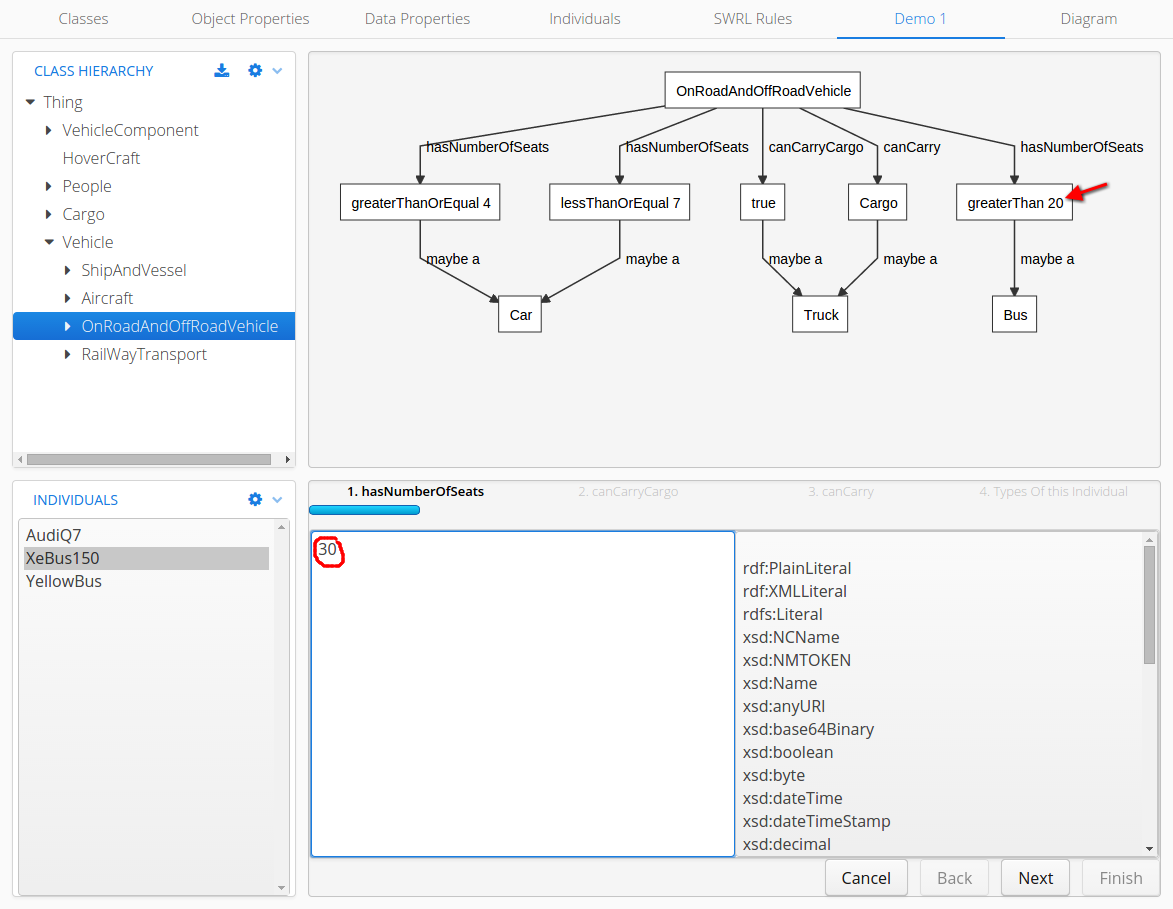
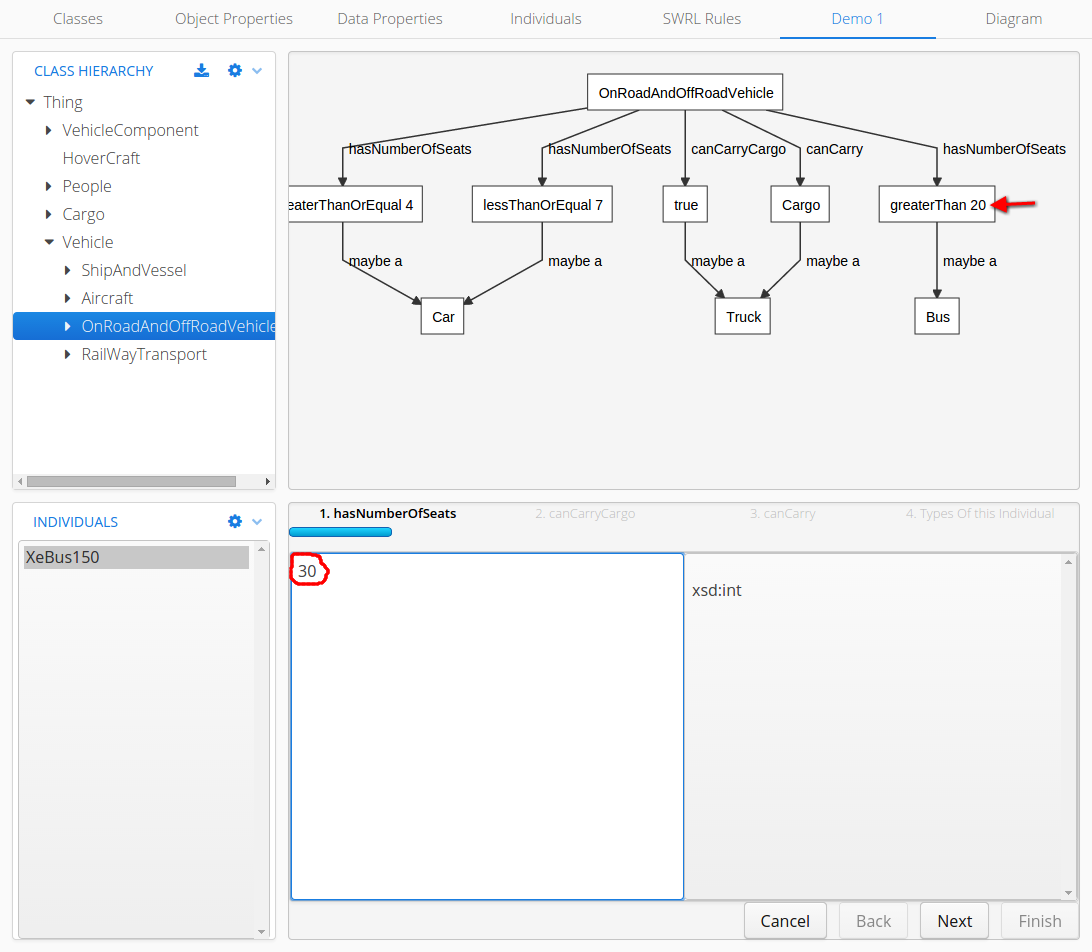
Done chapter 7

diff --git a/Chapters/uit_owleditor.tex b/Chapters/uit_owleditor.tex
@@ -441,28 +441,42 @@ Trong hình, các phát biểu được tô đậm chính là các phát biểu 
 \end{figure}
 Việc giải thích được đảm nhiệm bởi đối tượng \textit{DefaultExplanationGenerator} của OWL-API hoạt động theo nguyên lý được mô tả ở chương \textit{"Tính nhất quán của Ontology"}.
 
-\section{Thử nghiệm tính năng hỗ trợ phân loại - Demo Tab}
-Bên cạnh việc sử dụng đặc tính suy luận của Ontology để thực hiện phân loại, chúng em tự thiết kế một tính năng hỗ trợ phân loại dựa theo những thông tin khai báo trong SWRLRule, và dùng những ràng buộc về lĩnh vực (domain) và miền dữ liệu giới hạn (range) để hạn chế dữ liệu mà người dùng có thể lựa chọn qua đó làm giảm thời gian điền vào các mảnh thông tin còn thiếu. 
-\\
-Để phác họa cho ý tưởng này em xin trích một đoạn chứa các SWRLRule trong ontology \textit{Transport.owl} \cite{owleditorSrc} (được chúng em xây dựng để làm demo cho tính năng phân loại):
+\section{Tính năng hỗ trợ phân loại - Demo Tab}
+Việc sử dụng SWRL Rule hay đơn giản hơn là đọc và hiểu ý nghĩa có nó thường rất khó đối với người dùng thông thường, chưa kể đến việc chưa có cơ chế tổ chức các SWRL rule một cách khoa học, sẽ có những trường hợp chúng ta vô tình tạo ra những điều kiện trùng nhau dẫn đến 2 kết quả khác nhau hoặc ngược lại. Hiểu được nhược điểm này của SWRL Rule, chúng em đã thiết kế thêm tính năng hỗ trợ phân loại với giao diện là Tab Demo trong ứng dụng, với khả năng vẽ ra một sơ đồ dựa theo chuỗi các điều kiện - kết quả có liên quan đến lớp đang chứa cá thể được chọn để phân loại. Để minh họa cho tính năng này ,chúng em xin trích một đoạn chứa các SWRLRule trong ontology \textit{Transport.owl} \cite{owleditorSrc} (được chúng em xây dựng để làm demo cho tính năng phân loại):
 \begin{verbatim}
-# 
+# Phương tiện đường bộ có thể chở hàng hóa (Cargo) là xe tải (Truck)
 OnRoadAndOffRoadVehicle(?x) ^ canCarry(?x, ?y) ^ Cargo(?y)  -> Truck(?x)
-#
+# Phương tiện đường bộ có khả năng chở hàng là xe tải (Truck)
 OnRoadAndOffRoadVehicle(?x) ^ canCarryCargo(?x, true) -> Truck(?x)
-# Phương tiện đường bộ có số 4 <= chỗ ngồi <= 7 là xe hơi
+# Phương tiện đường bộ có số 4 <= chỗ ngồi <= 7 là xe hơi (Car)
 OnRoadAndOffRoadVehicle(?x) ^ hasNumberOfSeats(?x, ?s)
                             ^ swrlb:greaterThanOrEqual(?s, 4) 
                             ^ swrlb:lessThanOrEqual(?s, 7)  -> Car(?x)
-#
+# Phương tiện đường bộ có số chỗ ngồi >= 20 là xe Bus 
 OnRoadAndOffRoadVehicle(?x) ^ hasNumberOfSeats(?x, ?s) 
                             ^ swrlb:greaterThan(?s,20) -> Bus(?x)                               
 \end{verbatim}
-
-
-
-
-
+Dưới đây là hình ảnh mô tả sơ đồ biểu diễn của các rule trên
+\begin{figure}[h!]
+	\centering
+	\frame{\includegraphics[width=145mm]{Figures/owleditor_demo1.png}}
+	\caption{Tính năng hỗ trợ phân loại trong UIT-OWL Editor (phần 1)\label{overflow}}
+\end{figure}
+\\
+trong hình chỉ miêu tả những rule nào có liên quan đến lớp \textit{OnRoadAndOffRoadVehicle} vốn là lớp chứa cá thể \textit{XeBus150} trong hình, làm vậy để hạn chế những thông tin không cần thiết đối với người dùng. Khi chọn \textit{Suggest Me} sẽ tạo ra một loại các UI component phục vụ để tạo ra các phát biểu về cá thế \textit{XeBus150}.
+\begin{figure}[h!]
+	\centering
+	\frame{\includegraphics[width=145mm]{Figures/owleditor_demo2.png}}
+	\caption{Tính năng hỗ trợ phân loại trong UIT-OWL Editor (phần 2)\label{overflow}}
+\end{figure}
+\\
+Trong hình trên mỗi bước sẽ tương ứng với những phát biểu có liên quan đến \textit{OnRoadAndOffRoadVehicle} như trong sơ đồ. Miền dữ liệu (Range) của thuộc tính dữ liệu và thuộc tính đối tượng cũng sẽ được áp dụng nhằm giảm bớt những thông tin không cần thiết, thuộc tính \textit{hasNumberOfSeats} có DataPropertyRange( xsd:int) nên ở cột bên phải chúng ta chỉ thấy kiểu dữ liệu này thay vì là một loạt kiểu dữ liệu như xsd:string, xsd:byte, v.v... . Khi đến bước cuối cùng, reasoner sẽ đánh giá lại các thông tin mà chúng ta vừa nhập vào ở các bước trước để đưa kết quả phân loại phù hợp như đã được biểu diễn trong sơ đồ.
+\begin{figure}[h!]
+	\centering
+	\frame{\includegraphics[width=145mm]{Figures/owleditor_demo3.png}}
+	\caption{Tính năng hỗ trợ phân loại trong UIT-OWL Editor (phần 3)\label{overflow}}
+\end{figure}
+\paragraph{Kết luận} Qua chương này, chúng em đã trình bày về các tính năng nổi bật mà một trình biên soạn Ontology phải có, đồng thời chúng em cũng đã trình bày về những khả năng phân loại mà ngôn ngữ OWL2, SWRL mang lại qua những tính năng suy luận, giải thích và hỗ trợ phân loại. Ở chương kế và cũng là cuối cùng, chúng em xin dành để tổng hợp lại những kết quả đã làm được, những mặt khó khăn, thuận lợi và những hạn chế còn tồn tại, qua quan trọng không kém chính là hướng phát triển tương lai của công nghệ dạng này.
 
 
 

diff --git a/Chapters/owlapi_vaadin.tex b/Chapters/owlapi_vaadin.tex
@@ -15,8 +15,7 @@ Dưới đây là danh sách các Ontology Reasoner được hỗ trợ trong ph
 \item Pellet \cite{pellet}
 \item JFact 
 \end{itemize}
-Trong thư viện OWL-API, có nhiều đối tượng được xây dựng dựa trên cấu trúc phân lớp của một OWL2 Ontology, tương tự các thành phần đã được chúng em trình bày trong chương 2. Dưới đây là bảng liệt kê một số thành phần mà OWL-API đã xây dựng dựa trên mô tả trong chương 2 (chi tiết hơn ở trong \cite{owl2spec} và mã nguồn của OWL-API \cite{owlapi}).
-\begin{table}
+\begin{table}[h]
 	\centering
 	\begin{tabular}{|l|l|p{4cm}|}
 		\hline
@@ -51,9 +50,9 @@ Trong thư viện OWL-API, có nhiều đối tượng được xây dựng dự
 	\end{tabular}
 	\caption{Các đối tượng OWL2 trong OWL-API\label{overflow}}
 \end{table}
-Trên đây chỉ là một vài thành phần, mọi thành phần OWL2 được trình bày trong chương 2 đều được OWL-API xây dựng thành các đối tượng class, interface trong JAVA để phục vụ cho việc lập trình. Tuy nhiên để tương tác với một kiến trúc đối tượng lớn và phức tạp như 1 ontology cần có cách thức chuyên dùng cho việc này là Visitor Pattern.
+Trong thư viện OWL-API, có nhiều đối tượng được xây dựng dựa trên cấu trúc phân lớp của một OWL2 Ontology, tương tự các thành phần đã được chúng em trình bày trong chương 2. Dưới đây là bảng liệt kê một số thành phần mà OWL-API đã xây dựng dựa trên mô tả trong chương 2 (chi tiết hơn ở trong \cite{owl2spec} và mã nguồn của OWL-API \cite{owlapi}). Trên đây chỉ là một vài thành phần, mọi thành phần OWL2 được trình bày trong chương 2 đều được OWL-API xây dựng thành các đối tượng class, interface trong JAVA để phục vụ cho việc lập trình. Tuy nhiên để tương tác với một kiến trúc đối tượng lớn và phức tạp như 1 ontology cần có cách thức chuyên dùng cho việc này là Visitor Pattern.
 \subsection{Visitor Pattern}
-\begin{figure}[ht!]
+\begin{figure}[h!]
 	\centering
 	\includegraphics[width=110mm]{Figures/visitor_diagram.png}
 	\caption{Visitor Diagram\label{overflow}}
@@ -136,12 +135,14 @@ Có chức năng quản lý các OntologyIRI, OntologyID, VersionIRI. Cú pháp
 PrefixManager pm = new DefaultPrefixManager(null, null, "DemoIRI#");
 \end{verbatim}
 \subsubsection{OWLOntology}
-Là một bản mapping của OWL2 ontology thành các đối tượng trong JAVA, tất cả được lưu trong bộ nhớ (in-memory). Load ontology từ file nội bộ và URI:
+Là một bản mapping của OWL2 ontology thành các đối tượng trong Java, tất cả được lưu trong bộ nhớ (in-memory). Load ontology từ file nội bộ và URI:
 \begin{verbatim}
 String uri = "http://chuongdang.com/transport.owl";
 File file = new File("./transport.owl");
-OWLOntolgoy ont  = modelManager.loadOntologyFromOntologyDocument(IRI.create(uri));
-OWLOntolgoy ont2 = modelManager.loadOntologyFromOntologyDocument(IRI.create(file));
+OWLOntolgoy ont  = modelManager
+                  .loadOntologyFromOntologyDocument(IRI.create(uri));
+OWLOntolgoy ont2 = modelManager
+                  .loadOntologyFromOntologyDocument(IRI.create(file));
 \end{verbatim}
 \subsubsection{EntitySearcher}
 Static class \verb|EntitySearcher| cho phép truy vấn đến các cá thể trong OWL2 Ontology một cách nhanh nhất nếu chúng đã được khai báo. Ví dụ để tìm các mô tả lớp con của một lớp nào đó trong OWL 2 Ontology:
@@ -158,13 +159,11 @@ Lưu ý: cần phân biệt các tính năng của của \verb|EntitySearcher| v
 \subsubsection{OWLObjectRenderer}
 Đảm nhiệm khả năng ghi và biên dịch các thành phần của ontology từ IRI thành dạng vắng tắt, mỗi một dạng cú pháp sẽ có một đối tượng renderer khác nhau implements OWLObjectRenderer. Ví dụ cú pháp Manchester Syntax:
 \begin{verbatim}
-OWLObjectRenderer renderer = new ManchesterOWLSyntaxOWLObjectRendererImpl();
-// Render Class carIRI: http://Demo.org#Car
-OWLClass car = factory.getOWLClass("http://vehicle.org#Car");
-System.out.println(renderer.render(car));
-// Output: Car
+OWLObjectRenderer renderer = 
+                  new ManchesterOWLSyntaxOWLObjectRendererImpl();
 // Render ClassExpression
-OWLObjectProperty buy = factory.getOWLObjectProperty("http://vehicle.org#Buy");
+OWLObjectProperty buy = factory
+                   .getOWLObjectProperty("http://vehicle.org#Buy");
 OWLObjectSomeValuesFrom ce = factory.getOWLObjectSomeValuesFrom(buy, car);
 System.out.println(renderer.render(ce));
 // Output: Buy some Car <- Manchester Syntax

diff --git a/Chapters/intro.tex b/Chapters/intro.tex
@@ -1,6 +1,6 @@
 \chapter {Giới thiệu đề tài}
 \section{Tên đề tài}
-
+Trình biên soạn Ontology 
 \section{Nội dung và giới hạn đề tài}
 \subsection{Nội dung đề tài}
 OWL ( Web Ontology Language ) là một dạng ngôn ngữ biểu diễn tri thức. Ngôn ngữ này thường được sử dụng phổ biến trong Semantic Web, và được trình bày dưới dạng RDF-XML. Ngày 27 tháng 10 năm 2009, tổ chức W3C (World Wide Web Consortium) cho công bố OWL 2, với trình chỉnh sửa Protégé và các bộ reasoner như Pellet, HermiT, v.v .
